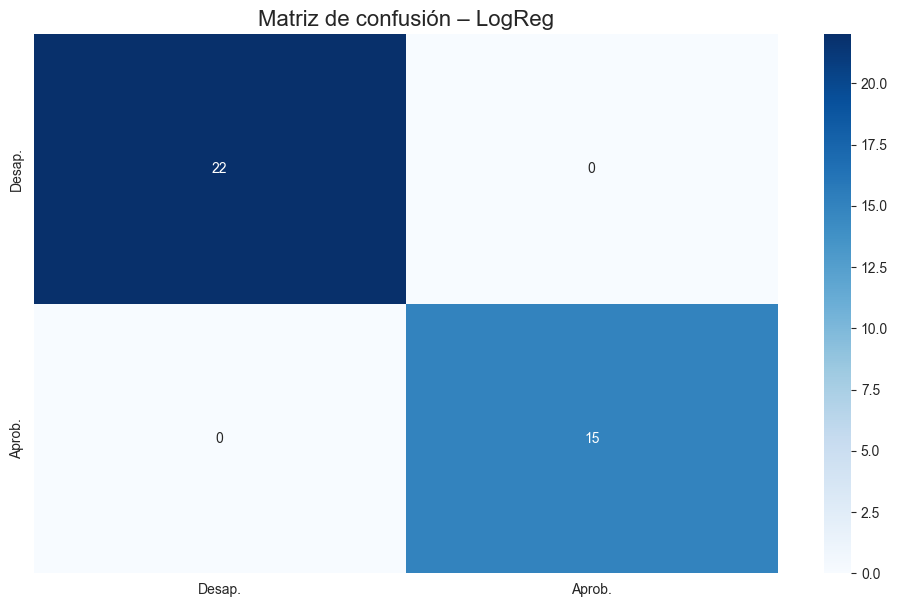
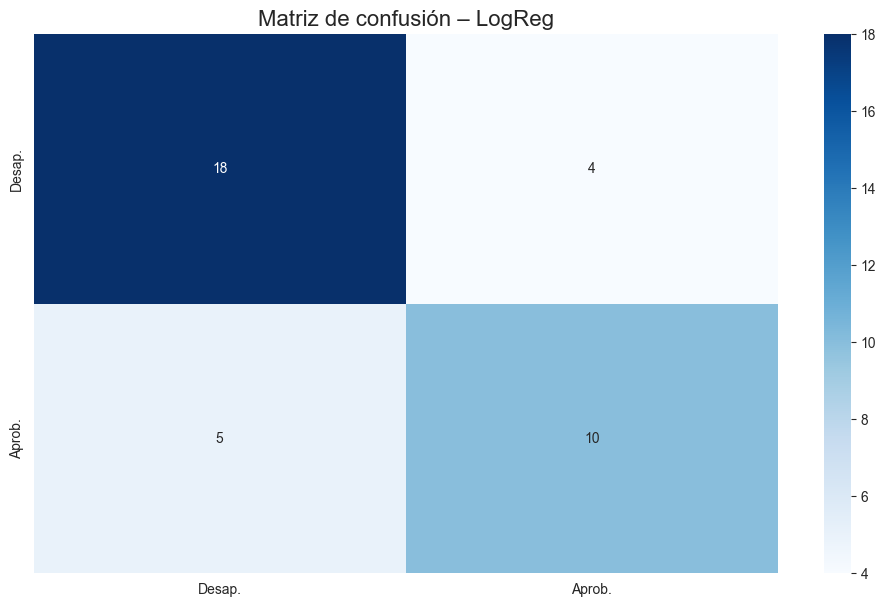
2do versión

diff --git a/pipelines/training_pipeline.py b/pipelines/training_pipeline.py
@@ -164,6 +164,8 @@ def run_training(file_path: str):
         ax.set_title("Matriz de correlación (variables numéricas)")
         _save(f, "eda_heatmap_corr")
 
+    # Archivo: pipelines/training_pipeline.py
+
     # ─── FASE 2 · Preparación de datos ───────────────────────────────
     drop_cols = [
         "Periodo","CÓDIGO","ALUMNO","DEPART","DISTRITO","NACIM","PERIODO_INGRESO",
@@ -172,8 +174,14 @@ def run_training(file_path: str):
         "ASISTENCIAS","CLASES","Promedio_Final","CUOTA_1","CUOTA_2","CUOTA_3","CUOTA_4","CUOTA_5",
         "ESTADO_APROBACION","DESCRIPCION"
     ]
-    X = df.drop(columns=drop_cols + ["ESTADO_APROBACION_NUM"], errors="ignore")
+
+    # ↓↓↓ ASEGÚRATE DE QUE ESTA PARTE ESTÉ ASÍ ↓↓↓
+    # 1. Se define 'y' con la columna objetivo.
     y = df["ESTADO_APROBACION_NUM"]
+
+    # 2. Se eliminan del DataFrame 'X' TANTO las columnas de 'drop_cols' COMO la columna objetivo.
+    X = df.drop(columns=["ESTADO_APROBACION_NUM"] + drop_cols, errors="ignore")
+    # ↑↑↑ ESTA LÍNEA ES LA MÁS IMPORTANTE ↑↑↑
 
     num_cols = X.select_dtypes(include="number").columns.tolist()
     cat_cols = X.select_dtypes(exclude="number").columns.tolist()

diff --git a/app.py b/app.py
@@ -99,7 +99,6 @@ def download_model_file(filename: str):
         as_attachment=True,
     )
 
-
 # ── Inicialización de carpetas y servidor ─────────────────────────────────────
 if __name__ == "__main__":
     # Asegurar directorios base
